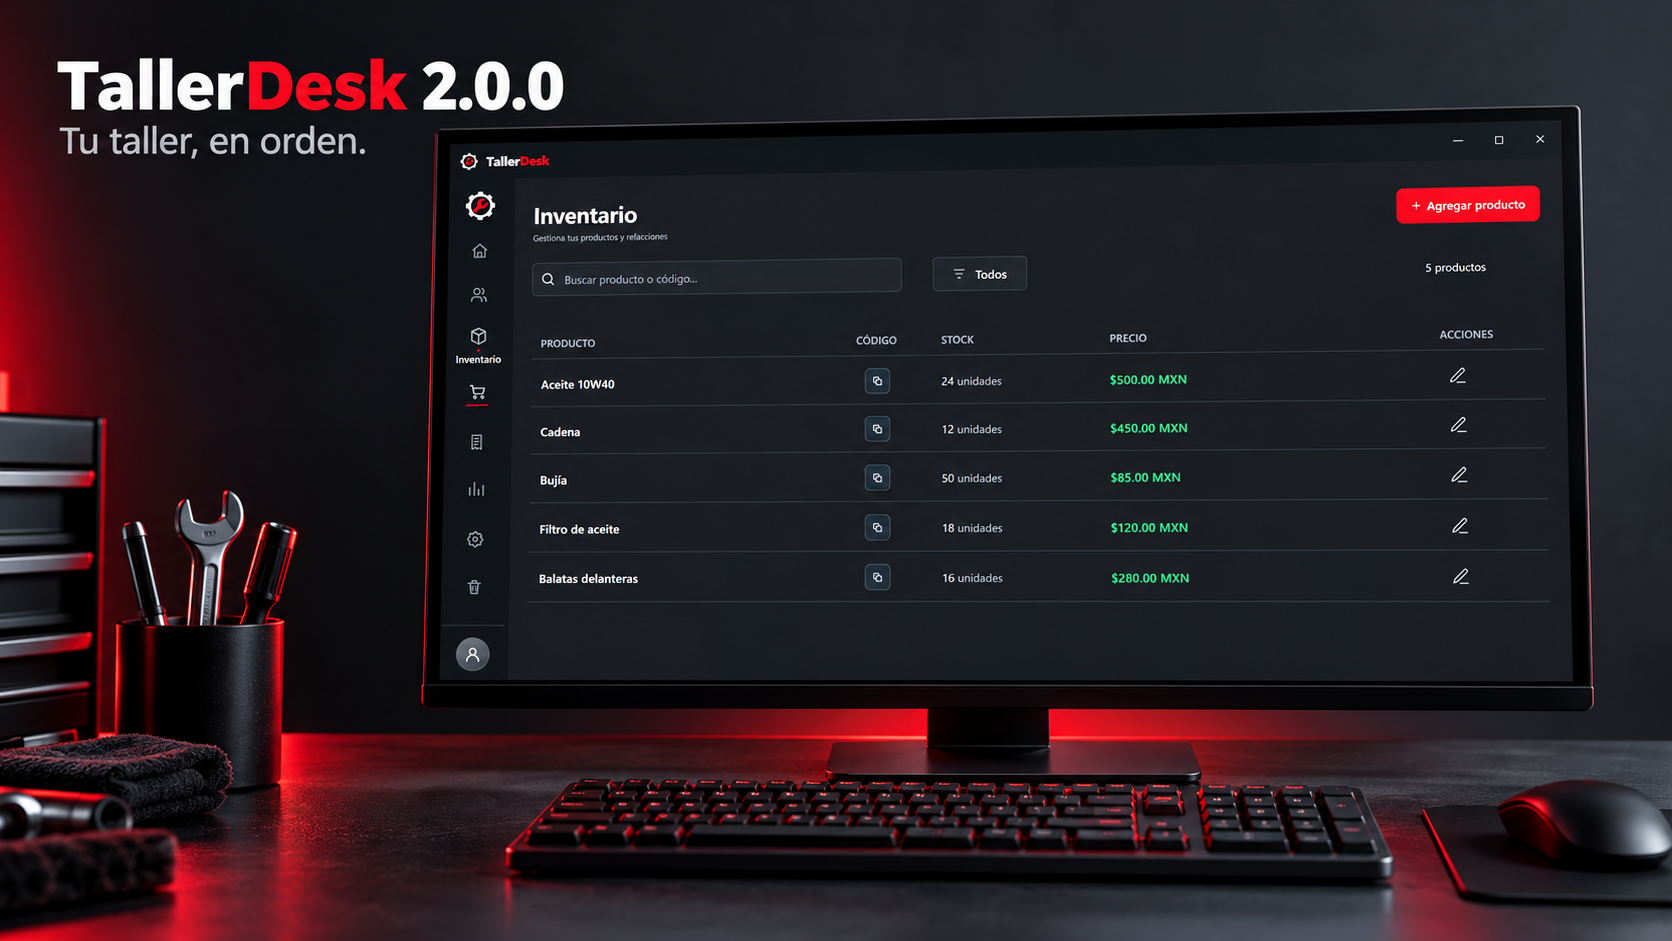
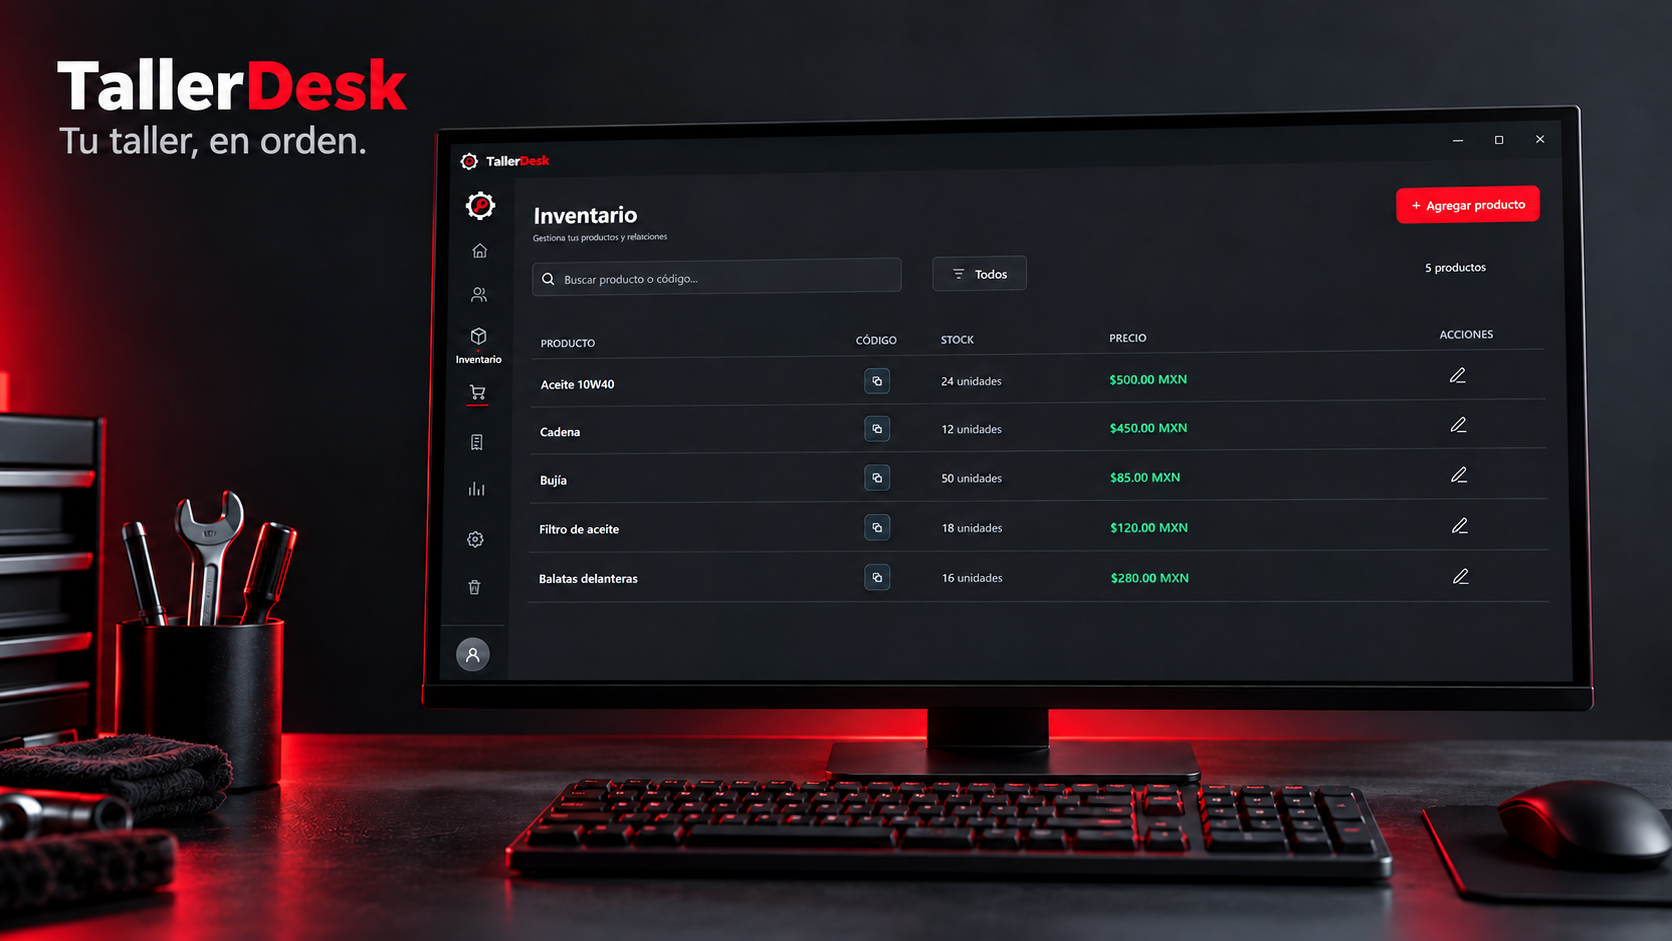
Actualizar imágenes y presentar TallerDesk 2.0.3

diff --git a/README.md b/README.md
@@ -2,38 +2,38 @@
 
 **Tu taller, en orden.** Aplicación de escritorio para administrar talleres de motocicletas.
 
-![TallerDesk 2.0.0 en una computadora de escritorio](assets/tallerdesk-v2-desktop.png)
+![TallerDesk en una computadora de escritorio](assets/tallerdesk-v2-desktop.png)
 
 Desarrollado por **Kevin · LionEdge**. Organiza la recepción de motocicletas, los servicios, el inventario y los cobros desde una interfaz oscura y minimalista.
 
-![Versión 2.0.2](https://img.shields.io/badge/Versión-2.0.2-EF3038?style=flat-square)
+![Versión 2.0.3](https://img.shields.io/badge/Versión-2.0.3-EF3038?style=flat-square)
 ![Windows 64 bits](https://img.shields.io/badge/Windows-64_bits-24292F?style=flat-square)
 ![Electron](https://img.shields.io/badge/Electron-243341?style=flat-square&logo=electron&logoColor=9FEAF9)
 ![Firebase](https://img.shields.io/badge/Firebase-FFCA28?style=flat-square&logo=firebase&logoColor=111827)
 
-## Nueva versión · 2.0.2
+## Nueva versión · 2.0.3
 
-[![Descargar TallerDesk 2.0.2](https://img.shields.io/badge/Descargar_TallerDesk_2.0.2-Windows_64_bits-EF3038?style=for-the-badge)](https://github.com/KevinJHernandez/TallerDesk/releases/download/v2.0.2/TallerDesk-Setup-2.0.2.exe)
+[![Descargar TallerDesk 2.0.3](https://img.shields.io/badge/Descargar_TallerDesk_2.0.3-Windows_64_bits-EF3038?style=for-the-badge)](https://github.com/KevinJHernandez/TallerDesk/releases/download/v2.0.3/TallerDesk-Setup-2.0.3.exe)
 
-[Ver todos los cambios de la versión 2.0.2](https://github.com/KevinJHernandez/TallerDesk/releases/tag/v2.0.2).
+[Ver todos los cambios de la versión 2.0.3](https://github.com/KevinJHernandez/TallerDesk/releases/tag/v2.0.3).
 
 **Software comercial.** La descarga es pública; para utilizar TallerDesk necesitas una cuenta autorizada por el desarrollador. Descargar o instalar el programa no activa el acceso. [Solicita información o una demostración](https://github.com/KevinJHernandez).
 
-### Correcciones de la 2.0.2
+### Correcciones de la 2.0.3
 
-- Menú completo en ventanas pequeñas, incluyendo el acceso a la cuenta.
-- Paleta roja predeterminada corregida: los controles ya no quedan negros por falta de color.
-- Inicio con actividad reciente e importes más legibles y espacio aprovechado.
-- Corte ajustado al tamaño disponible, con total visible y detalles desplazables en alturas pequeñas.
-- Comparación de Estadísticas y pestañas de Configuración accesibles al reducir la ventana.
-- Revisión con datos de demostración: 43 pruebas funcionales y 126 comprobaciones de diseño, incluyendo escala de 125 %, cinco colores y formularios con muchos servicios.
+- Botón de terminar corte completo, sin encogerse en laptop, y aviso de cierre más breve.
+- Servicio terminado y servicio registrado con grises consistentes, importes verdes y listas desplazables.
+- Cabecera y pestañas del cliente fijas; Historial y Servicios se desplazan dentro de su propio apartado.
+- Iconos de historial centrados, con rojo para cancelaciones y verde para servicios terminados.
+- Imágenes de presentación actualizadas, sin el número 2.0.0 antiguo.
+- Comprobación con datos de demostración: 43 pruebas funcionales y 150 escenarios de diseño, incluyendo escala de 125 %, cortes vacíos y 18 servicios.
 
 <details>
-<summary>Ver Inicio y Corte en tamaño de laptop</summary>
+<summary>Ver Corte e Historial en tamaño de laptop</summary>
 
-![Inicio en tamaño de laptop, versión 2.0.2](assets/tallerdesk-v202-home-laptop.png)
+![Corte en tamaño de laptop, versión 2.0.3](assets/tallerdesk-v203-cut-laptop.png)
 
-![Corte en tamaño de laptop, versión 2.0.2](assets/tallerdesk-v202-cut-laptop.png)
+![Historial del cliente con cabecera fija, versión 2.0.3](assets/tallerdesk-v203-client-history.png)
 
 Capturas del programa con datos de demostración.
 
@@ -55,18 +55,22 @@ Capturas del programa con datos de demostración.
 
 ### Así se ve
 
-![Ventas de TallerDesk 2.0.0 en una laptop](assets/tallerdesk-v2-laptop.png)
+![Ventas de TallerDesk en una laptop](assets/tallerdesk-v2-laptop.png)
 
 *Montajes de presentación basados en pantallas del programa, con datos de demostración. El color del tema se puede personalizar.*
 
 <details>
 <summary>Ver capturas del programa</summary>
 
-![Inventario de TallerDesk 2.0.0 con stock visible](assets/tallerdesk-v2-inventory.png)
+![Inventario de TallerDesk con stock visible](assets/tallerdesk-v2-inventory.png)
 
-![Ticket de ventas de TallerDesk 2.0.0](assets/tallerdesk-v2-sales.png)
+![Ticket de ventas de TallerDesk](assets/tallerdesk-v2-sales.png)
 
 </details>
+
+## Versión anterior · 2.0.2
+
+[Descargar TallerDesk 2.0.2](https://github.com/KevinJHernandez/TallerDesk/releases/download/v2.0.2/TallerDesk-Setup-2.0.2.exe) · [Ver detalles](https://github.com/KevinJHernandez/TallerDesk/releases/tag/v2.0.2)
 
 ## Versión anterior · 2.0.1
 
